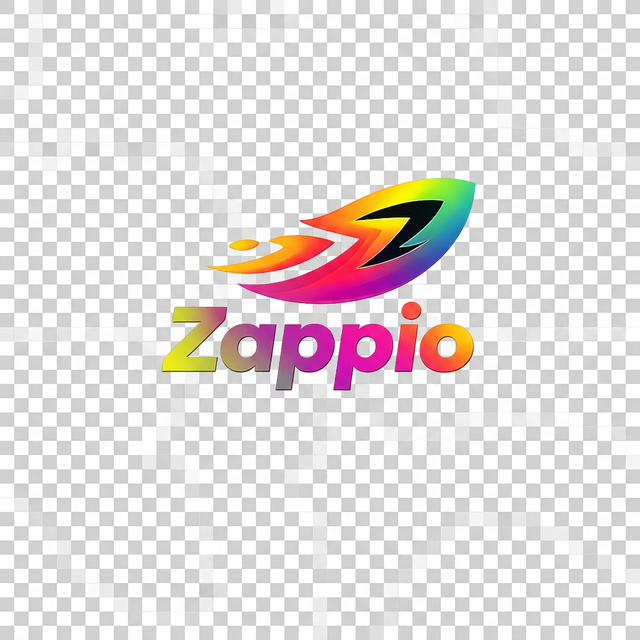
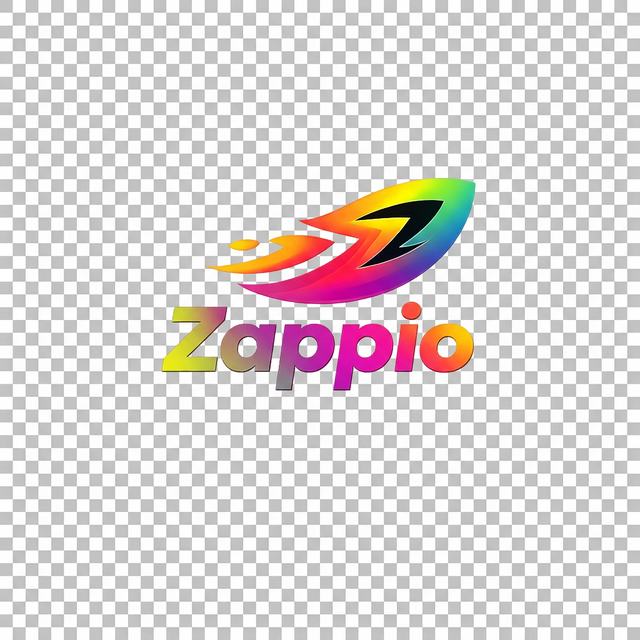
done

diff --git a/frontend/src/modules/user/Login.tsx b/frontend/src/modules/user/Login.tsx
@@ -89,7 +89,7 @@ export default function Login() {
             <img
               src="/assets/Zappio.png"
               alt="Zappio"
-              className="h-16 w-auto object-contain drop-shadow-md"
+              className="h-16 w-auto object-contain"
             />
           </div>
 
